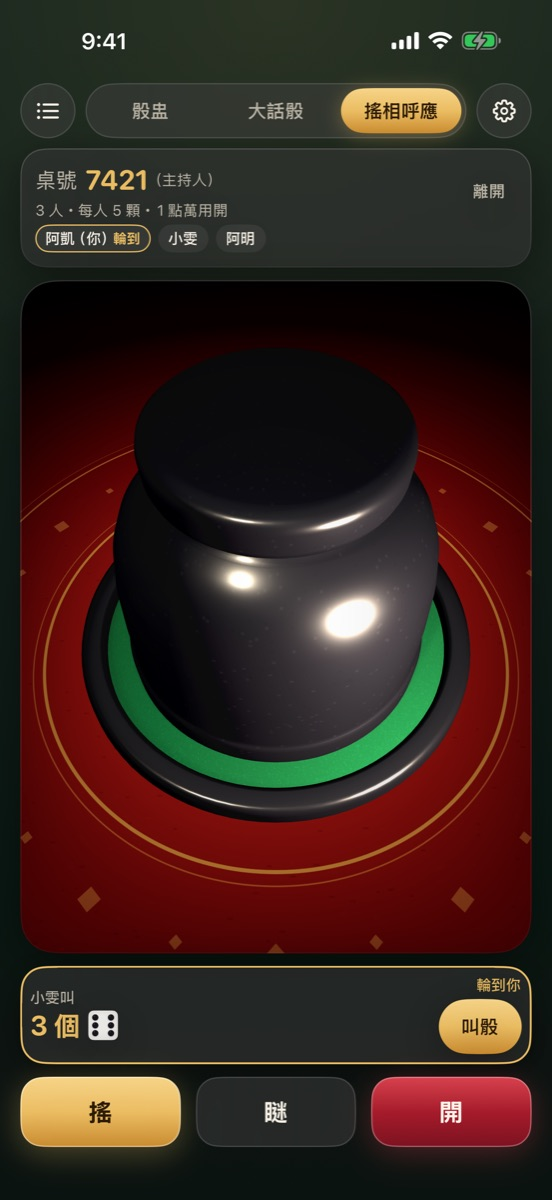
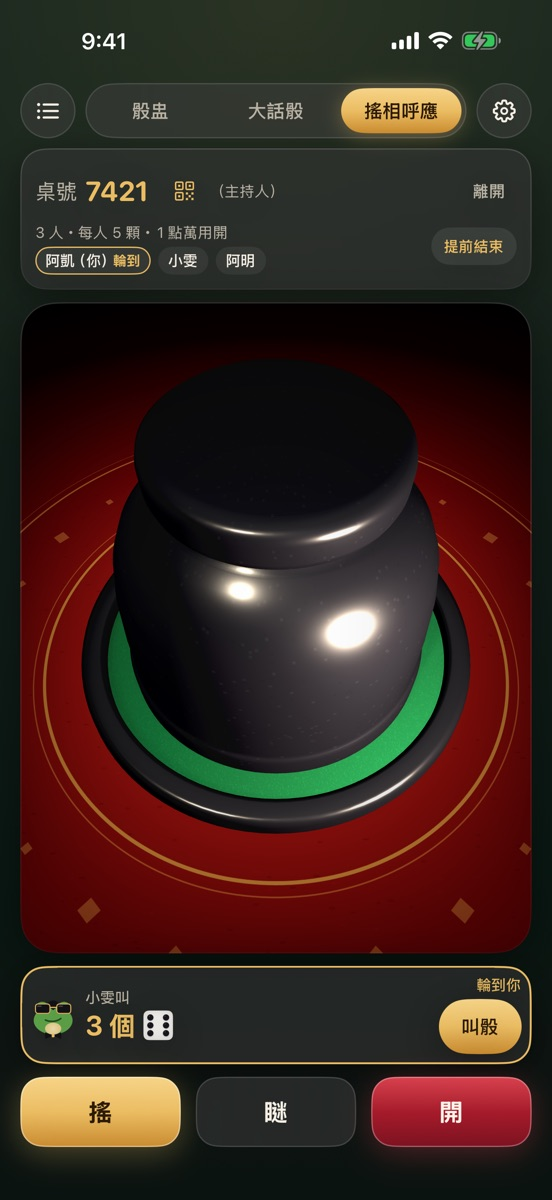
膨風盅 1.2.0 已上架：版本紀錄改為目前版本，同桌介紹與問答改成 1.2 用法
- 版本紀錄 1.2.0 標為目前版本（2026-11-25），首頁標示 1.2 版
- 搖相呼應卡片、隱私區塊、聲控與掃 QR code 問答改成按住說話、App 內掃碼
- 同桌截圖換成 1.2 畫面（膨風水雞上桌）

diff --git a/bluffrog/index.html b/bluffrog/index.html
@@ -469,7 +469,7 @@ footer a{text-decoration:none}footer a:hover{color:var(--cream)}
           <span class="tag">搖相呼應</span>
           <h3>全桌一起開盅</h3>
           <p>2 到 8 支手機圍成一桌，任何人開盅，全桌同時開。</p>
-          <ul><li>輸入桌號或掃 QR code 就加入，不用帳號</li><li>沒有 Wi-Fi 也能在 1 秒左右連上</li><li>輪到你才能喊，也能用喊的叫骰</li><li>自動統計全桌點數、判定輸贏</li></ul>
+          <ul><li>輸入桌號或掃 QR code 就加入，不用帳號</li><li>沒有 Wi-Fi 也能在 1 秒左右連上</li><li>按住麥克風喊「四個四」叫骰、喊「開」開盅</li><li>骰數、誰先喊、開新局，桌上誰都能按</li><li>自動統計全桌點數、判定輸贏</li></ul>
           <div class="shot-wrap"><img class="shot" src="img/06-result.jpg" alt="搖相呼應：開盅後顯示「你贏了」，以及全桌各點數的統計" width="552" height="1200" loading="lazy"></div>
         </article>
       </div>
@@ -508,7 +508,7 @@ footer a{text-decoration:none}footer a:hover{color:var(--cream)}
       <div>
         <p class="eyebrow rv">吉祥物</p>
         <h2 class="h2 rv" id="frog-h" style="--i:1">叫得越大，<br>水雞<em>鼓得越大</em>。</h2>
-        <p class="lede rv" style="--i:2">膨風水雞是大話骰裡陪你吹牛的青蛙。叫骰越喊越多，牠的喉嚨就越鼓；被人一把抓包，當場洩氣。</p>
+        <p class="lede rv" style="--i:2">膨風水雞是陪你吹牛的青蛙，大話骰和同桌都在。叫骰越喊越多，牠的喉嚨就越鼓；被人一把抓包，當場洩氣。</p>
         <div class="bid rv" style="--i:3">
           <div class="bid__row"><label for="qty">拖動來叫骰</label><p class="bid__say" aria-live="polite"><span class="num" id="qtyOut">3</span> 個 6</p></div>
           <input type="range" id="qty" min="1" max="10" value="3" aria-describedby="bidStatus">
@@ -555,8 +555,8 @@ footer a{text-decoration:none}footer a:hover{color:var(--cream)}
       <figure><img src="img/02-peek.jpg" alt="骰盅掀起一角，露出幾顆骰子" width="552" height="1200" loading="lazy"><figcaption><b>瞇</b>掀起一角偷看</figcaption></figure>
       <figure><img src="img/03-revealed.jpg" alt="開盅後綠色氈面上的骰子，下方列出每個點數的數量與合計" width="552" height="1200" loading="lazy"><figcaption><b>開</b>點數自動算好</figcaption></figure>
       <figure><img src="img/04-liar.jpg" alt="大話骰對局畫面" width="552" height="1200" loading="lazy"><figcaption><b>大話骰</b>跟 AI 對吹</figcaption></figure>
-      <figure><img src="img/05-table.jpg" alt="搖相呼應的同桌畫面，顯示桌號與在場玩家" width="552" height="1200" loading="lazy"><figcaption><b>搖相呼應</b>輸入桌號或掃碼加入</figcaption></figure>
-      <figure><img src="img/06-result.jpg" alt="同桌開盅結果：你贏了" width="552" height="1200" loading="lazy"><figcaption><b>輸贏</b>一開盅就知道</figcaption></figure>
+      <figure><img src="img/05-table.jpg" alt="搖相呼應的同桌畫面：桌號、在場玩家，輪到你叫骰" width="552" height="1200" loading="lazy"><figcaption><b>搖相呼應</b>輸入桌號或掃碼加入</figcaption></figure>
+      <figure><img src="img/06-result.jpg" alt="同桌開盅結果：膨風水雞旁顯示你贏了，下方列出全桌點數" width="552" height="1200" loading="lazy"><figcaption><b>輸贏</b>一開盅就知道</figcaption></figure>
     </div>
     <div class="reel-ctl"><button type="button" data-dir="-1" aria-label="上一張"><svg><use href="#left"/></svg></button><button type="button" data-dir="1" aria-label="下一張"><svg><use href="#right"/></svg></button></div>
   </section>
@@ -571,7 +571,7 @@ footer a{text-decoration:none}footer a:hover{color:var(--cream)}
         <ul class="plist">
           <li class="rv"><b>紀錄只在你的手機</b><span>設定和回合紀錄存在裝置上，刪掉 App 就一起刪除。</span></li>
           <li class="rv" style="--i:1"><b>同桌直接連線</b><span>附近的手機之間加密直連，沒有 Wi-Fi 也能連，不經過伺服器。</span></li>
-          <li class="rv" style="--i:2"><b>聲控在手機上辨識</b><span>喊「五個六」叫骰時，聲音不會錄下，也不會上傳。</span></li>
+          <li class="rv" style="--i:2"><b>聲控在手機上辨識</b><span>只在按住麥克風時聽，聲音不會錄下，也不會上傳。</span></li>
           <li class="rv" style="--i:3"><b>沒有真錢</b><span>不含下注、籌碼或任何可兌換的虛擬貨幣。</span></li>
         </ul>
       </div>
@@ -597,8 +597,8 @@ footer a{text-decoration:none}footer a:hover{color:var(--cream)}
       <p class="eyebrow rv">版本紀錄</p>
       <h2 class="h2 rv" id="ver-h" style="--i:1">每一版，<em>改了什麼</em>。</h2>
       <ol class="log" reversed>
-        <li class="rv">
-          <div><p class="ver">1.2.0</p><time datetime="2026-11">2026 年 11 月</time><span class="soon">即將推出</span></div>
+        <li class="latest rv">
+          <div><p class="ver">1.2.0</p><time datetime="2026-11-25">2026 年 11 月 25 日</time><span class="now">目前版本</span></div>
           <div>
             <h3>「搖相呼應」大更新</h3>
             <ul>
@@ -611,11 +611,11 @@ footer a{text-decoration:none}footer a:hover{color:var(--cream)}
               <li>小螢幕手機版面更寬鬆，暱稱最多 6 個字</li>
               <li>修正新局搖骰時骰子飛出骰盅</li>
             </ul>
-            <p class="note">同桌模式需要大家都更新到 1.2.0 才能一起玩。Apple 審核通過後，就能在 App Store 更新。</p>
+            <p class="note">同桌模式需要大家都更新到 1.2.0 才能一起玩。</p>
           </div>
         </li>
-        <li class="latest rv" style="--i:1">
-          <div><p class="ver">1.1.1</p><time datetime="2026-11-24">2026 年 11 月 24 日</time><span class="now">目前版本</span></div>
+        <li class="rv" style="--i:1">
+          <div><p class="ver">1.1.1</p><time datetime="2026-11-24">2026 年 11 月 24 日</time></div>
           <div>
             <h3>iOS 17 也能順利同桌</h3>
             <ul>
@@ -664,7 +664,7 @@ footer a{text-decoration:none}footer a:hover{color:var(--cream)}
         <a class="btn btn--gold" href="https://apps.apple.com/tw/app/%E8%86%A8%E9%A2%A8%E7%9B%85/id6835320625">在 App Store 免費下載<svg aria-hidden="true"><use href="#arr"/></svg></a>
         <a class="btn btn--ghost" href="#support">支援與隱私權</a>
       </div>
-      <small class="rv" style="--i:3">已在 App Store 上架・1.1.1 版・免費・4 歲以上・iOS 17 以上的 iPhone 與 iPad</small>
+      <small class="rv" style="--i:3">已在 App Store 上架・1.2 版・免費・4 歲以上・iOS 17 以上的 iPhone 與 iPad</small>
     </div>
   </section>
 
@@ -675,9 +675,9 @@ footer a{text-decoration:none}footer a:hover{color:var(--cream)}
         <h2>支援</h2>
         <p class="meta">遇到問題或有建議，寫信到 <a href="mailto:quchu.app@gmail.com?subject=%E8%86%A8%E9%A2%A8%E7%9B%85%20%E5%95%8F%E9%A1%8C%E5%9B%9E%E5%A0%B1">quchu.app@gmail.com</a>，通常兩天內回覆。</p>
         <details><summary>搖手機沒有反應？</summary><p>到 App 的「設定」把搖晃靈敏度調高，或直接按畫面下方的「搖」。大話骰叫骰階段不能重搖，這是規則。</p></details>
-        <details><summary>同桌模式找不到桌子？</summary><p>先確認大家都更新到 1.1.0 以上（1.1 換了新的連線方式，和 1.0 不相通），並允許膨風盅使用「區域網路」。手機靠近一點、打開 Wi-Fi 即可，不一定要連上同一個網路；連上同一個 Wi-Fi 最快。開桌的人把四位數桌號告訴大家，或顯示 QR code 讓朋友掃。iOS 17 的手機請更新到 1.1.1，連不上時畫面會直接寫出原因。</p></details>
-        <details><summary>掃 QR code 沒有反應？</summary><p>用 iPhone 內建的「相機」掃開桌畫面上的 QR code，點跳出的連結就會打開膨風盅並加入那一桌。掃的人要先裝好膨風盅；還沒裝的話，先到 App Store 下載。</p></details>
-        <details><summary>聲控叫骰怎麼用？</summary><p>在同桌畫面打開麥克風開關，輪到你時直接喊「五個六」就會自動叫骰。需要支援裝置端語音辨識的 iPhone，不支援時不會出現這個開關。</p></details>
+        <details><summary>同桌模式找不到桌子？</summary><p>先確認大家都更新到 1.2.0（不同版本的同桌模式不相通），並允許膨風盅使用「區域網路」。手機靠近一點、打開 Wi-Fi 即可，不一定要連上同一個網路；連上同一個 Wi-Fi 最快。開桌的人把四位數桌號告訴大家，或顯示 QR code 讓朋友掃。連不上時畫面會直接寫出原因。</p></details>
+        <details><summary>怎麼掃 QR code 加入？</summary><p>在膨風盅的加入畫面按「掃 QR code 加入」，對準開桌那支手機上的 QR code 就會加入（第一次會詢問相機權限）。也可以用 iPhone 內建的「相機」掃，點跳出的連結就會打開膨風盅；掃的人要先裝好膨風盅。</p></details>
+        <details><summary>聲控叫骰怎麼用？</summary><p>在同桌畫面按住麥克風說話，放開就送出：說「四個四」叫骰，說「開」「抓」「不信」「騙人」開盅。說的不合規則時會告訴你原因。用喊的開盅可以在房間設定關掉；需要支援裝置端語音辨識的 iPhone，不支援時不會出現麥克風。</p></details>
         <details><summary>可以只用按鈕玩嗎？</summary><p>可以。搖、瞇、開都有對應按鈕，也支援 VoiceOver。</p></details>
         <details><summary>玩的時候螢幕會自己變暗嗎？</summary><p>從 1.1 版開始，膨風盅開在前景時螢幕不會變暗或自動鎖定；切到別的 App 就恢復系統設定。</p></details>
       </article>

diff --git a/index.html b/index.html
@@ -478,7 +478,7 @@ footer a:hover{color:var(--ink)}
       </a>
       <a class="tile t-bf rv" href="#bluffrog" data-spot>
         <div class="txt">
-          <div class="head"><img class="app-icon" src="img/bluffrog-icon-128.jpg" alt="" width="56" height="56" loading="lazy"><div><h3><span lang="zh-Hant">膨風盅</span><span lang="en">Bluffrog</span></h3><span class="tag"><span lang="zh-Hant">已上架・1.1.1 版・1.2 即將推出</span><span lang="en">On the App Store · 1.1.1 · 1.2 coming soon</span></span></div></div>
+          <div class="head"><img class="app-icon" src="img/bluffrog-icon-128.jpg" alt="" width="56" height="56" loading="lazy"><div><h3><span lang="zh-Hant">膨風盅</span><span lang="en">Bluffrog</span></h3><span class="tag"><span lang="zh-Hant">已上架・1.2 版</span><span lang="en">On the App Store · 1.2</span></span></div></div>
           <p><span lang="zh-Hant">搖手機擲骰、掀盅邊偷瞇、上滑開盅。大話骰 AI 對手，朋友在場還能全桌同步開盅。</span><span lang="en">Shake to roll, lift the rim to peek, swipe up to reveal. Liar’s Dice AI, and a nearby mode that opens every cup at once.</span></p>
         </div>
         <div class="pips" aria-hidden="true"><i></i><i></i><i></i></div>
